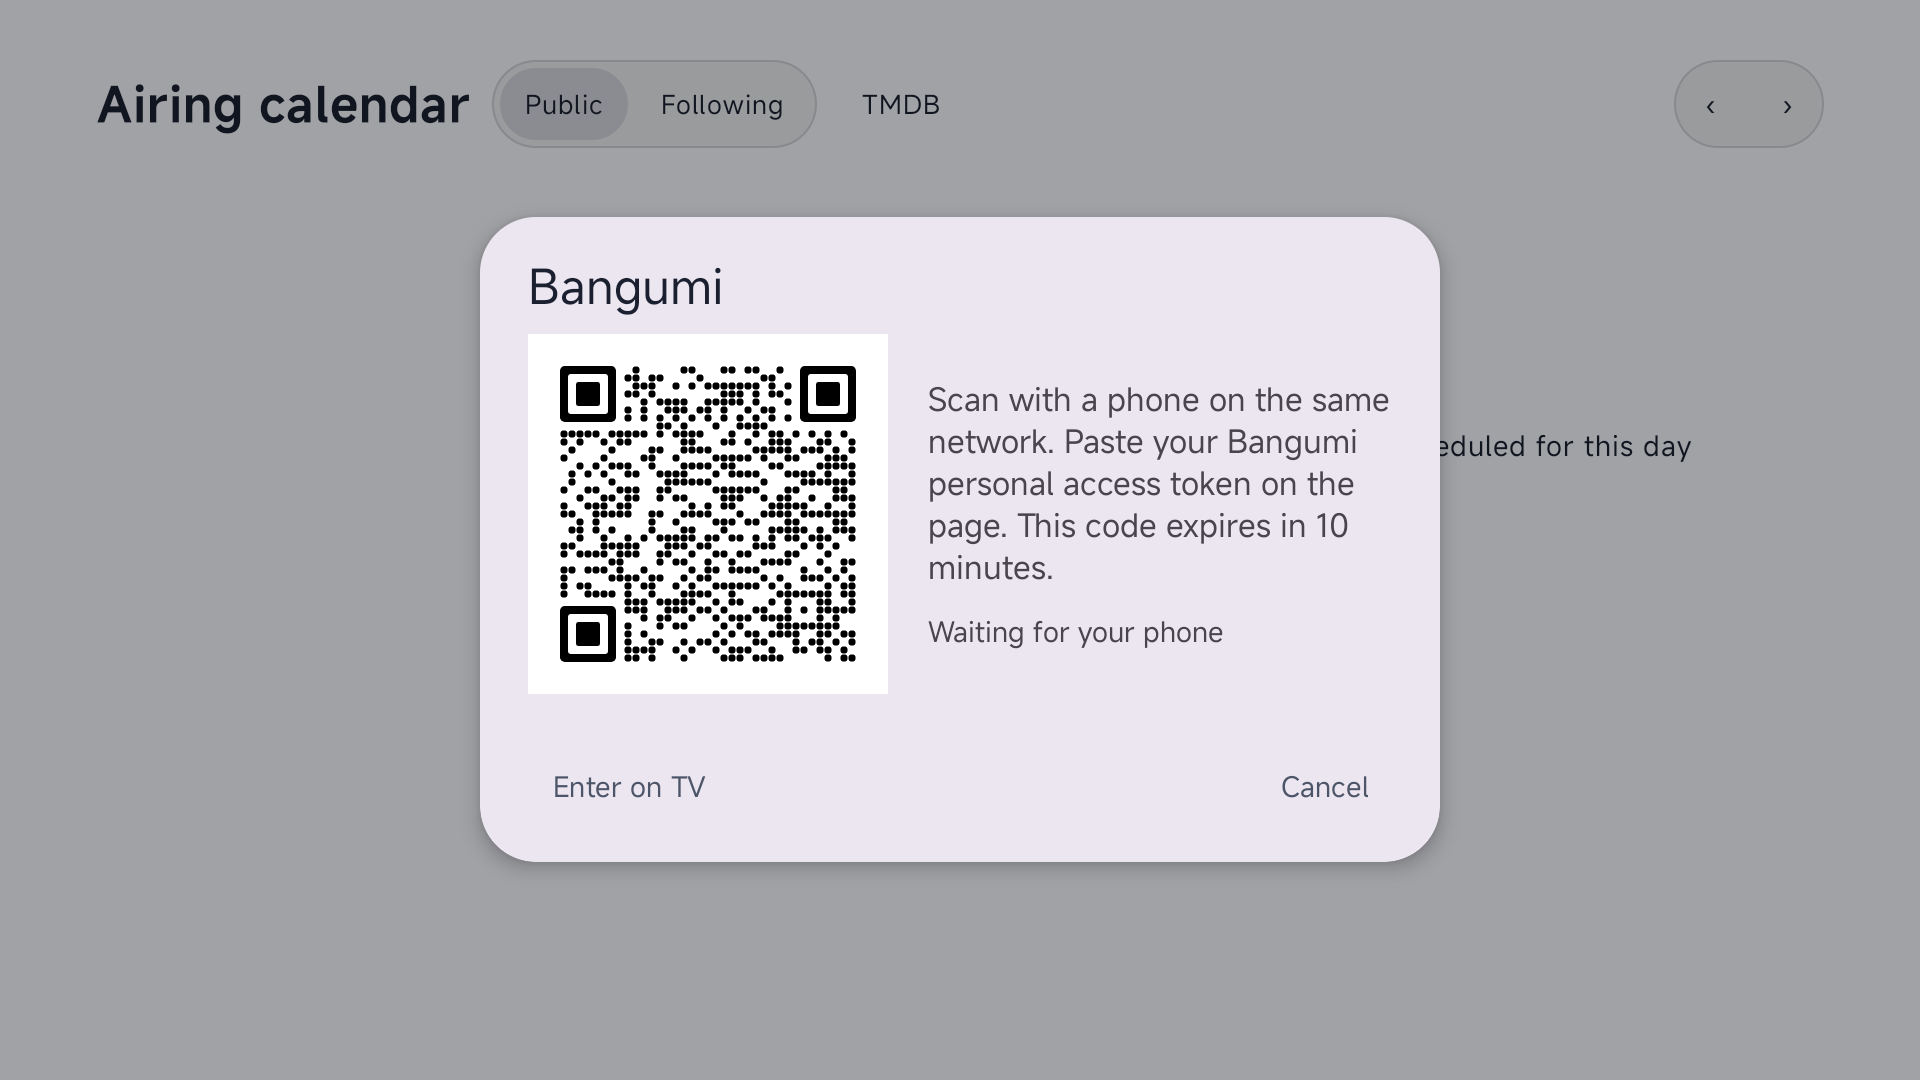
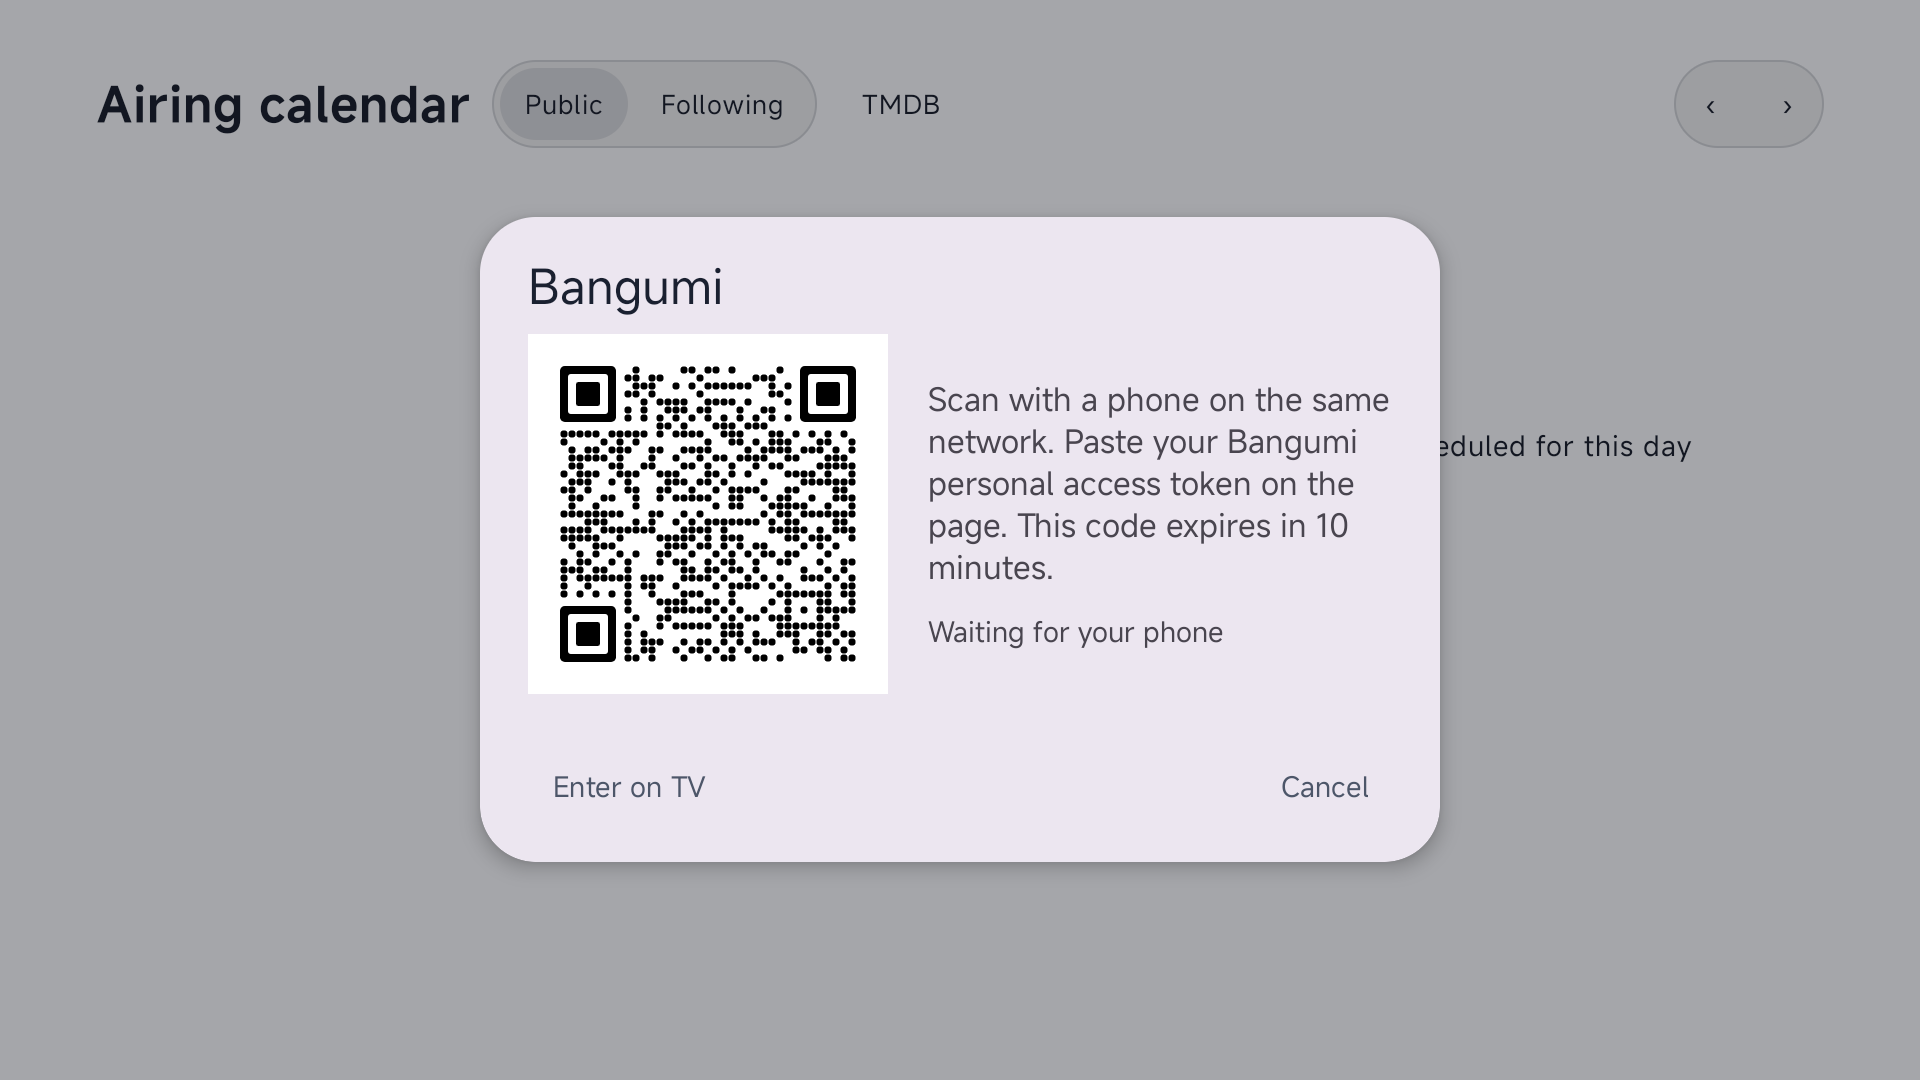
Record verified Trakt and Bangumi phone authorization

Changed region(s): [[0.2812, 0.3361, 0.4062, 0.6111]]

diff --git a/docs/testing/reports/2026-11-28-bangumi-phone/README.md b/docs/testing/reports/2026-11-28-bangumi-phone/README.md
@@ -1,17 +1,17 @@
-# Bangumi 手机扫码连接验证
+# Trakt 与 Bangumi 手机扫码连接验证
 
-验证提交：`7d835a41be6db10d706950774d387df0017b9248`，分支 `feat/bangumi-phone-20261128`，基线 `10d60c808`。独立分支仅包含账号连接、相关文档与验证用例。
+验证提交：`36dcf58d8a899a09d903e49feb2818a1cd95f29d`，分支 `feat/calendar-phone-20261128`，基线 `10d60c808`。独立分支包含 Trakt 与 Bangumi 手机连接、Trakt 发布配置补全、相关文档与验证用例。
 
-最终 [GitHub Actions 46157574933](https://github.com/wobuhui666/TV/actions/runs/46157574933) 全部通过。环境为 Ubuntu runner、Temurin JDK 21、Python 3.10、Android SDK 37.0、固定 Media3 `342f6590e02ac390e0bd6b4488b8a1bff55747c1` 及仓库补丁；浏览器为 Playwright 1.64.1 / Chromium，设备为 API 34 x86_64 模拟器。
+最终 [GitHub Actions 46159738099](https://github.com/wobuhui666/TV/actions/runs/46159738099) 全部通过。环境为 Ubuntu runner、Temurin JDK 21、Python 3.10、Android SDK 37.0、固定 Media3 `342f6590e02ac390e0bd6b4488b8a1bff55747c1` 及仓库补丁；浏览器为 Playwright 1.64.1 / Chromium，设备为 API 34 x86_64 模拟器。
 
 | 检查 | 结果 |
 | --- | --- |
 | 大屏伴侣既有浏览器回归 | 18 项通过 |
-| Bangumi 手机连接浏览器回归 | 6 项通过 |
-| Debug 会话／HTTP／日志／诊断专项 JUnit | 4 类、22 项通过 |
-| Preview 完整应用 JUnit | 174 类、1,385 项通过，无失败或跳过 |
+| Trakt / Bangumi 手机连接浏览器回归 | 10 项通过 |
+| Debug 会话／HTTP／Trakt API／日志／诊断专项 JUnit | 5 类、40 项通过 |
+| Preview 完整应用 JUnit | 174 类、1,389 项通过，无失败或跳过 |
 | Preview 应用和 instrumentation APK | 构建通过 |
-| API 34 Android | 20 项通过：二维码 8、遥控 8、真实日志 1、Bangumi 账号连接 3 |
+| API 34 Android | 24 项通过：二维码 8、遥控 8、真实日志 1、日历账号连接 7（Bangumi 3、Trakt 4） |
 
 脱敏结果见 [validation-summary.json](validation-summary.json)。首次本地 Gradle 因内存不足未完成，随后按用户要求迁到 GHA；本地结果不计为 Android 构建或单测通过。
 
@@ -27,9 +27,13 @@ WEB_VERIFY_OUTPUT=artifacts/material-web/accounts \
 
 6 项通过：合法会话提交与完成、无效令牌重试、刷新恢复配对但不恢复令牌、未配对／过期拒绝、网络失败恢复、简体／繁体／英文与浅深色在 320／375／768 宽度无横向溢出。检查令牌只在 POST JSON 中提交、不进入 URL 或浏览器存储、提交后清空输入框。过程中发现同标签页重新扫码未更新和英文按钮窄屏溢出，已修复并复测。
 
+另外 4 项 Trakt 检查通过：手机提交 Client ID 后显示公开验证码与官网链接、拒绝非 Trakt 授权地址、无效 Client ID 重试与过期停止授权、简繁英 320 宽度输入／授权两阶段无溢出。API 不向网页返回私有设备码或访问／刷新令牌。
+
 | 手机浅色 | 手机深色 |
 | --- | --- |
 | ![手机浅色](bangumi-phone-light.png) | ![手机深色](bangumi-phone-dark.png) |
+
+![Trakt 手机授权](trakt-phone-authorization.png)
 
 ## Android
 
@@ -37,11 +41,19 @@ WEB_VERIFY_OUTPUT=artifacts/material-web/accounts \
 
 账号 instrumentation 用例从真实电视截图解码二维码，通过实际本机 HTTP 提交令牌，验证取消会话失效、手动输入可达、无效令牌保留原账号、有效令牌经 Keystore 加密保存与完成后重复提交不覆盖账号。Bangumi `/v0/me` 和空收藏分页由受控 OkHttp 响应提供，未访问真实账号。
 
-[首轮 GHA 46156258758](https://github.com/wobuhui666/TV/actions/runs/46156258758) 的单测及构建通过，但账号 UI 的 3 项中有 1 项失败：二维码与说明纵向排列导致底部按钮超出弹窗可见区域。改成并排布局，并显式检查浅深色两种弹窗的取消与手动输入按钮可见后，第二轮全部通过。
+新增 4 项 Trakt instrumentation 验证：直接官网二维码与验证码可读、授权成功保存访问／刷新令牌；手机更换 Client ID 时失败保留旧账号，授权成功后才替换；关闭弹窗停止轮询；授权码过期使手机会话失效且不保存账号。Trakt `/oauth/device/code` 和 `/oauth/device/token` 由受控响应提供，覆盖待授权 400 与无效 Client ID 401，未访问真实 Trakt 账号。
+
+[首轮 GHA 46156258758](https://github.com/wobuhui666/TV/actions/runs/46156258758) 的单测及构建通过，但账号 UI 的 3 项中有 1 项失败：二维码与说明纵向排列导致底部按钮超出弹窗可见区域。改成并排布局，并显式检查浅深色两种弹窗的取消与手动输入按钮可见后，[Bangumi 第二轮](https://github.com/wobuhui666/TV/actions/runs/46157574933) 全部通过；本报告顶部为追加 Trakt 后再次通过的完整结果。
 
 | 电视浅色 | 电视深色 |
 | --- | --- |
 | ![电视浅色](bangumi-tv-light.png) | ![电视深色](bangumi-tv-dark.png) |
+
+| Trakt 官网授权 | Trakt 手机配置 |
+| --- | --- |
+| ![Trakt 官网授权](trakt-tv-light.png) | ![Trakt 手机配置](trakt-tv-client.png) |
+
+![Trakt 深色授权](trakt-tv-dark.png)
 
 工作流执行的 Gradle 命令（`sdk.init.gradle` 为工作流生成的 SDK 37.0 兼容脚本）：
 
@@ -51,6 +63,7 @@ WEB_VERIFY_OUTPUT=artifacts/material-web/accounts \
   --tests 'com.fongmi.android.tv.server.process.DiagnosticsTest' \
   --tests 'com.fongmi.android.tv.calendar.CalendarAccountPairingTest' \
   --tests 'com.fongmi.android.tv.server.process.CalendarAccountTest' \
+  --tests 'com.fongmi.android.tv.calendar.TraktAccountApiTest' \
   --no-daemon --build-cache --max-workers=2 --console=plain
 ./gradlew -I sdk.init.gradle :app:assembleLeanbackArm64_v8aPreview \
   :app:assembleLeanbackArm64_v8aPreviewAndroidTest \
@@ -60,4 +73,4 @@ WEB_VERIFY_OUTPUT=artifacts/material-web/accounts \
 
 ## 覆盖限制
 
-浏览器使用受控接口；Android 使用生产账号弹窗的预览宿主、真实 HTTP 与 Keystore，官方 API 响应为受控空列表。未验证真实 Bangumi 登录、非空列表同步、个人日历刷新后的真实排期、iOS Safari、API 24 或实体电视扫码，未运行完整 lint。本次不接入 OAuth App ID／Secret，不部署回调服务。既有账号数据导入与操作范围见[使用说明](../../../native-discovery.md#追更日历)，手机接口见[大屏伴侣](../../../web-companion.md#日历账号连接)。
+浏览器使用受控接口；Android 使用生产账号弹窗的预览宿主、真实 HTTP 与 Keystore，官方 API 响应为受控设备码、令牌或空列表。未验证真实 Trakt／Bangumi 登录、真实刷新令牌、非空列表同步、个人日历刷新后的真实排期、iOS Safari、API 24 或实体电视扫码，未运行完整 lint。Trakt 使用现有设备码 OAuth，无 Client Secret；Bangumi 使用个人令牌，不接入 Bangumi OAuth，也不部署回调服务。两条发布工作流已对齐 `TRAKT_CLIENT_ID` 注入，但本次未构建带真实 Client ID 的发布包。既有账号数据导入与操作范围见[使用说明](../../../native-discovery.md#追更日历)，手机接口见[大屏伴侣](../../../web-companion.md#日历账号连接)。

diff --git a/docs/testing/README.md b/docs/testing/README.md
@@ -4,7 +4,7 @@
 
 | 日期 | 报告 | 主要范围与限制 |
 | --- | --- | --- |
-| 2026-11-28 | [Bangumi 手机扫码连接](reports/2026-11-28-bangumi-phone/README.md) | GHA：24 项网页、22 项专项与 1,385 项完整应用单测、20 项 API 34 检查及 Preview 构建通过；修复弹窗按钮裁切，真实账号未覆盖 |
+| 2026-11-28 | [Trakt / Bangumi 手机扫码连接](reports/2026-11-28-bangumi-phone/README.md) | GHA：28 项网页、40 项专项与 1,389 项完整应用单测、24 项 API 34 检查及 Preview 构建通过；含 Trakt 官网授权／手机 Client ID，真实账号未覆盖 |
 | 2026-11-28 | [WEX 自建源迁移与 X20 实测](reports/2026-11-28-wex-x20/README.md) | 16 个点播源、3 个电视直播源；Kazumi Android 10／API 9 与上游同步、MP4 并发及双向拖动、斗鱼直连对照、哔哩 4K 抽测及直播帧证据；18 处引用迁至 zhhshss、9 处解析地址替换；Wex 官方入口同步、旧 JAR 清理和 MyPan 分类验证；23 处 jsdmirror 引用、自建 JAR 改后缀与 X20 加载验证；不覆盖全部频道与 MPV |
 | 2026-11-28 | [网页日志与图标对齐](reports/2026-11-28-web-logs/README.md) | GHA：18 项网页、10 项专项与 1,373 项完整应用单测、17 项 API34 回归及 Preview 构建通过；含真实 logcat → HTTP |
 | 2026-11-24 | [日历账号、栏目筛选、媒体库提速与按钮居中合并发布](reports/2026-11-24-integrated-release/README.md) | 合并后 1656 项单测、API 24／34 日历与追剧各 23 项、API 34 首页／媒体库 88 项（首次 87，重跑通过）及推送页通过；按钮居中有修复前后截图；未在实体电视安装，海报墙界面回归未重跑 |

diff --git a/docs/README.md b/docs/README.md
@@ -33,7 +33,7 @@
 | --- | --- |
 | WEX 自建源迁移与 X20 实测 | [19 个源、Wex 入口与 CDN 迁移、自建 JAR 改后缀及 X20 验证](testing/reports/2026-11-28-wex-x20/README.md) |
 | 网页日志与图标对齐 | [2026-11-28 验证、浏览器截图与覆盖限制](testing/reports/2026-11-28-web-logs/README.md) |
-| Bangumi 手机扫码连接 | [临时配对、令牌提交与浏览器验证](testing/reports/2026-11-28-bangumi-phone/README.md) |
+| Trakt / Bangumi 手机扫码连接 | [官网设备码授权、手机配置与令牌提交验证](testing/reports/2026-11-28-bangumi-phone/README.md) |
 | 合并发布与按钮居中 | [Release 195 合并后验证、固定尺寸按钮内容居中的前后对照](testing/reports/2026-11-24-integrated-release/README.md) |
 | 媒体库选集与选源性能 | [焦点重绘、按需列表、后台匹配、搜索复用与计算基准](testing/reports/2026-11-22-media-library-performance/README.md) |
 | 首页栏目完整筛选 | [完整片库、综艺／节目性质与 TMDB 真实内容验证](testing/reports/2026-11-22-home-wall-filters/README.md) |
